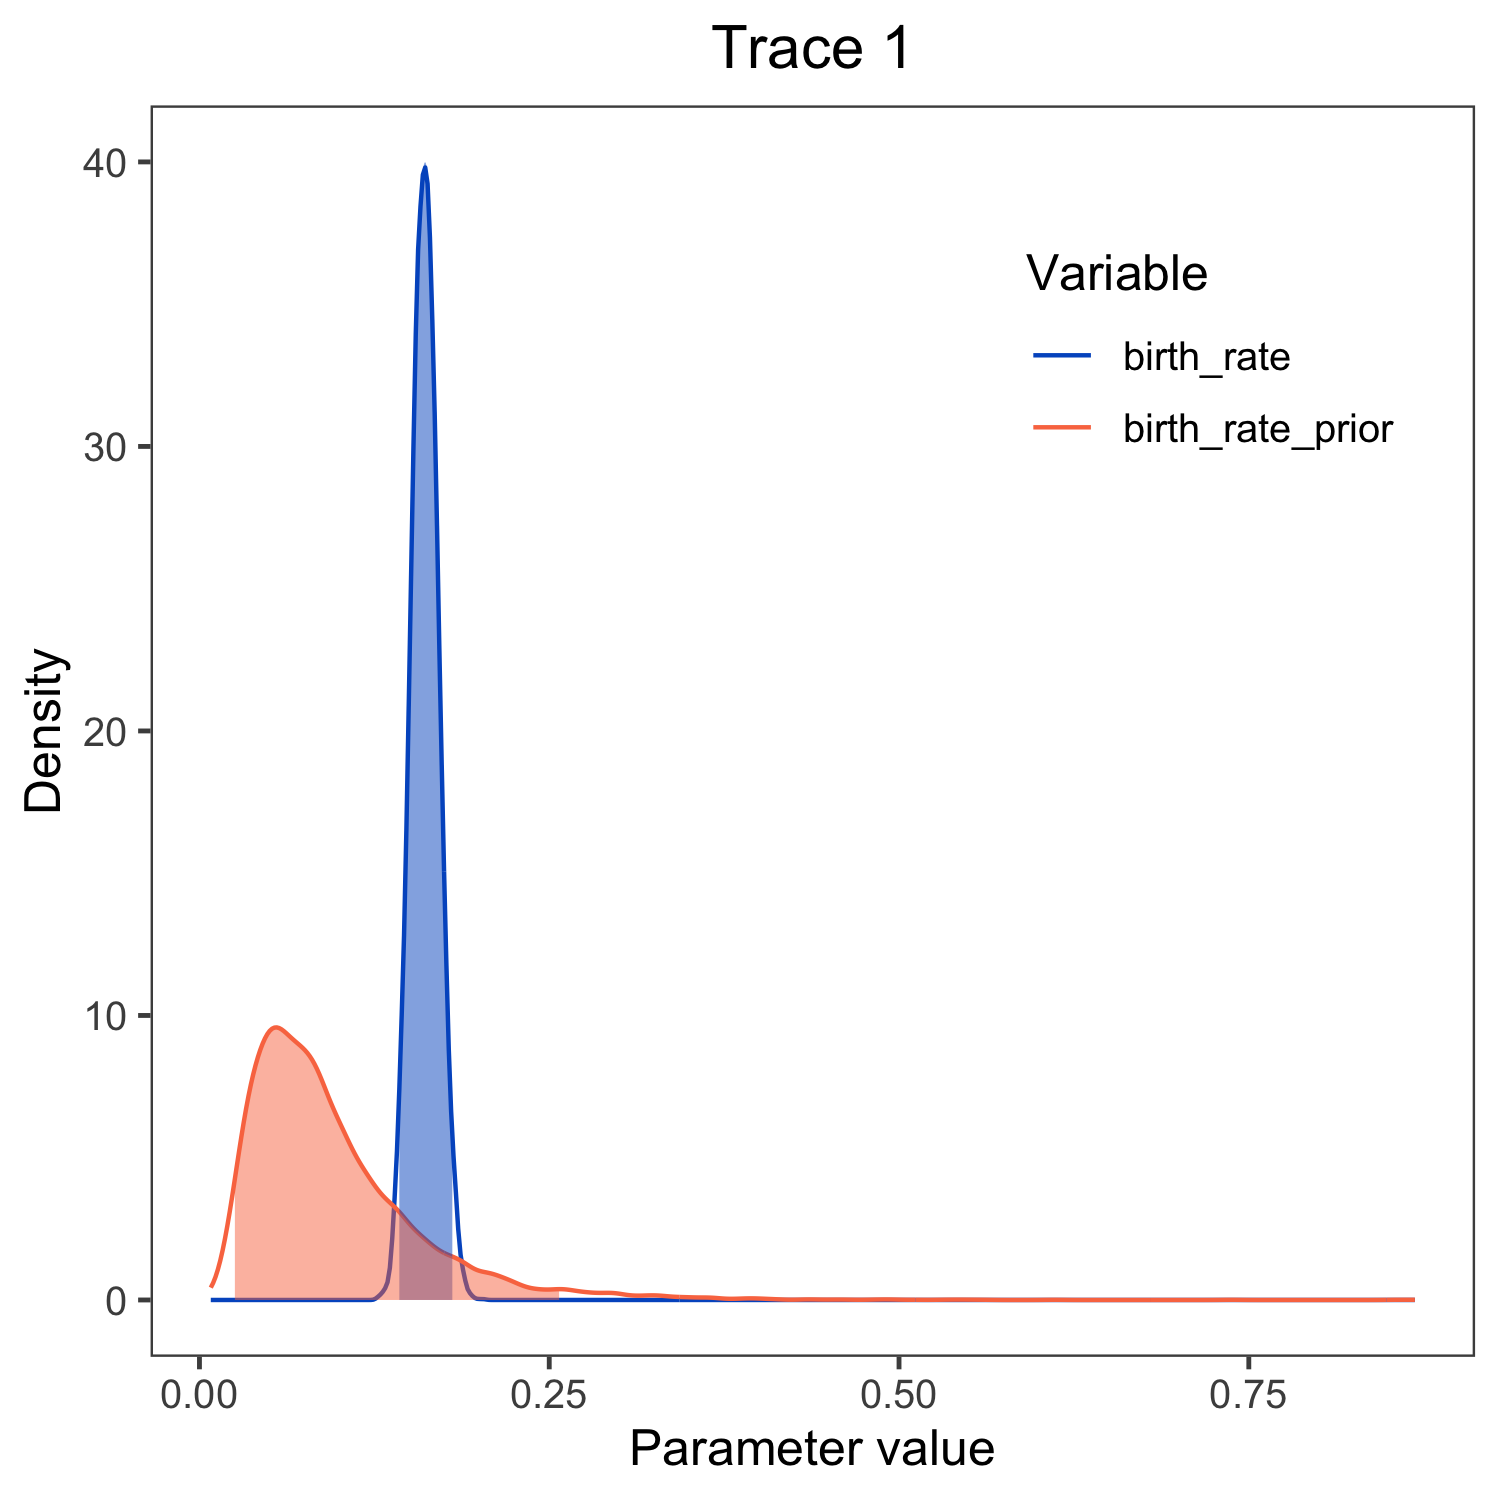
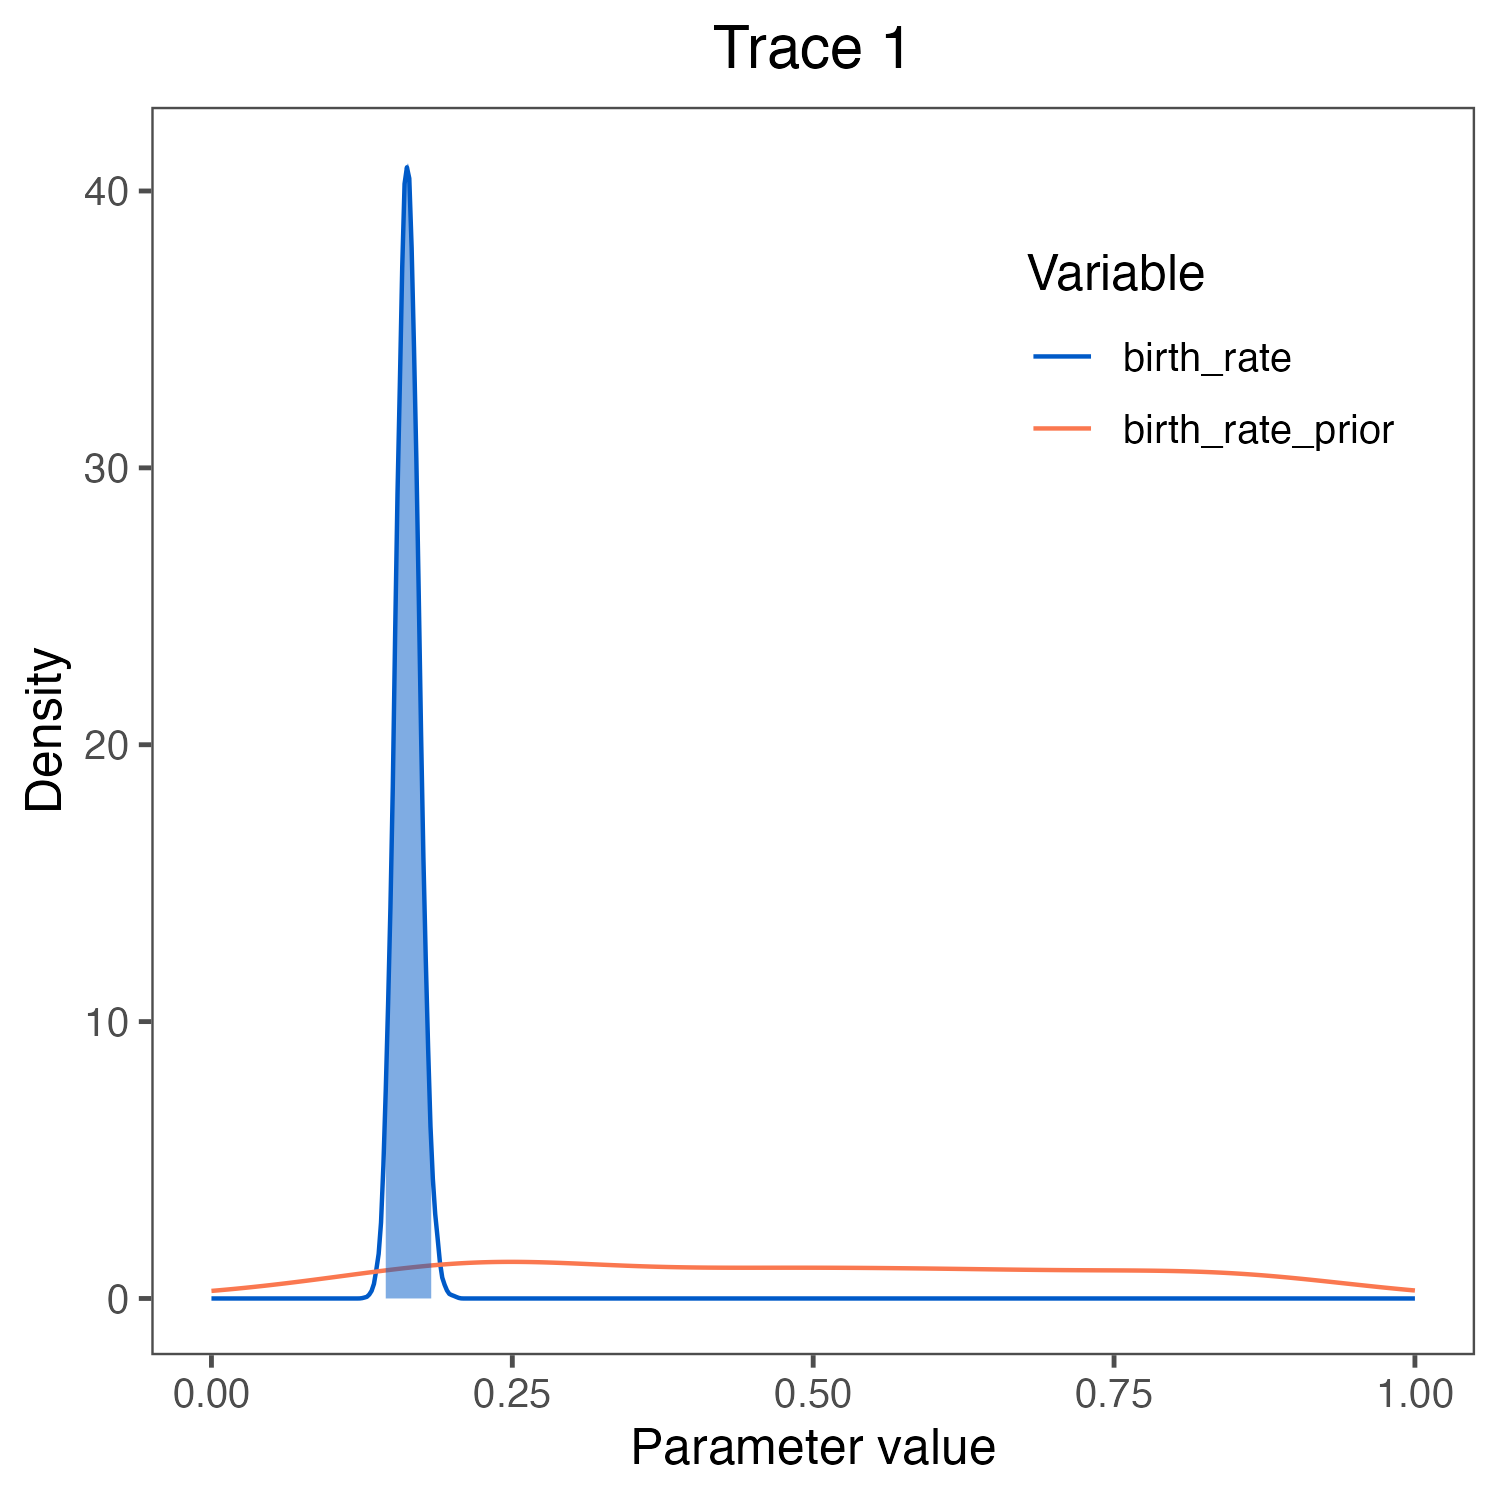
new prios

diff --git a/tutorials/divrate/figures/yule_gm2.tex b/tutorials/divrate/figures/yule_gm2.tex
@@ -1,9 +1,9 @@
 \begin{tikzpicture}
 \node[obnode] (nx) at (1,1) {\LARGE $\Psi$};
-\node[constnode] (lambda) at ($(nx)+(-1,2)$) {\LARGE $\lambda$};
+\node[snode] (lambda) at ($(nx)+(-1,2)$) {\LARGE $\lambda$};
 \node[constnode] (rho) at ($(nx)+(1,2)$) {\LARGE $\rho$};
-\node[constnode] (ml) at ($(lambda)+(-1,2)$) {\Large $m_\lambda$};
-\node[constnode] (sdl) at ($(lambda)+(1,2)$) {\Large $sd_\lambda$};
+\node[constnode] (ml) at ($(lambda)+(-1,2)$) {\Large $0$};
+\node[constnode] (sdl) at ($(lambda)+(1,2)$) {\Large $100$};
 \node[constnode] (root) at ($(nx)+(-2,0)$) {\Large $T$};
 \draw [taro] (root) -- (nx);
 \draw [taro] (rho) -- (nx);
@@ -11,8 +11,8 @@
 \draw [taro] (ml) -- (lambda);
 \draw [taro] (sdl) -- (lambda);
 \node at ($(nx)+(0,-1)$) {time tree};
-\node[white, fill=blue, shape=rectangle, rounded corners] at ($(ml)-(1.75,0)$) {prior mean};
-\node[white, fill=blue, shape=rectangle, rounded corners] at ($(sdl)+(2.75,0)$) {prior standard deviation};
+\node[white, fill=blue, shape=rectangle, rounded corners] at ($(ml)-(1.75,0)$) {prior min};
+\node[white, fill=blue, shape=rectangle, rounded corners] at ($(sdl)+(2.75,0)$) {prior max};
 \node[white, fill=blue, shape=rectangle, rounded corners] at ($(lambda)+(-0.75,0)$) [left]{speciation rate};
 \node[white, fill=blue, shape=rectangle, rounded corners] at ($(root)+(-0.75,0)$) [left]{root age};
 \node[white, fill=blue, shape=rectangle, rounded corners] at ($(rho)+(0.75,0)$) [right]{sampling probability};

diff --git a/tutorials/divrate/modules/simple_Yule_parameter_estimation.md b/tutorials/divrate/modules/simple_Yule_parameter_estimation.md
@@ -46,15 +46,12 @@ $\mu$) is a constant node with the value 0.
 {% figcaption %}
 The graphical model representation
 of the pure-birth (Yule) process, where the speciation rate is treated
-as a random variable drawn from a lognormal distribution.
+as a random variable drawn from a uniform distribution.
 {% endfigcaption %}
 {% endfigure %}
 
-For this exercise, we will specify a Yule model, such that the
-speciation rate is a stochastic node, drawn from a lognormal
-distribution as in {% ref fig_yule_gm2 %}. In a Bayesian framework, we
-are interested in estimating the posterior probability of $\lambda$
-given that we observe a time tree.
+For this exercise, we will specify a Yule model, such that the speciation rate is a stochastic node, drawn from a uniform distribution as in {% ref fig_yule_gm2 %}.
+In a Bayesian framework, we are interested in estimating the posterior probability of $\lambda$ given that we observe a time tree.
 
 $$
 \begin{equation}
@@ -63,23 +60,21 @@ $$
 \end{equation}
 $$
 
-In this example, we have a phylogeny of 233 primates. We are treating
-the time tree $\Psi$ as an observation, thus clamping the model with an
-observed value. The time tree we are conditioning the process on is
-taken from the analysis by {% citet MagnusonFord2012 %}. Furthermore, there are
-approximately 367 described primates species, so we will fix the
-parameter $\rho$ to $233/367$.
+In this example, we have a phylogeny of 233 primates.
+We are treating the time tree $\Psi$ as an observation, thus clamping the model with an observed value.
+The time tree we are conditioning the process on is taken from the analysis by {% citet MagnusonFord2012 %}.
+Furthermore, there are approximately 367 described primates species, so we will fix the parameter $\rho$ to $233/367$.
 
 &#8680; The full Yule-model specification is in the file called `mcmc_Yule.Rev`.
 
 
 {% subsection Read the tree %}
 
-Begin by reading in the observed tree and get some useful variables. We will need these later on.
+Begin by reading in the observed tree and get some useful variables.
+We will need these later on.
 {{ "mcmc_Yule.Rev" | snippet:"line","19-22" }}
 
-Additionally, we can initialize a variable for our vector of
-moves and monitors:
+Additionally, we can initialize a variable for our vector of moves and monitors:
 {{ "mcmc_Yule.Rev" | snippet:"line","26-27" }}
 
 
@@ -87,37 +82,22 @@ moves and monitors:
 
 {% subsubsection Birth rate %}
 
-The model we are specifying only has three nodes
-({% ref fig_yule_gm2 %}). We can specify the birth rate $\lambda$, the
-mean and standard deviation of the lognormal hyperprior on $\lambda$,
-and the conditional dependency of the two parameters all in one line of
-`Rev` code.
-{{ "mcmc_Yule.Rev" | snippet:"line","36-38" }}
+The model we are specifying only has three nodes ({% ref fig_yule_gm2 %}).
+We can specify the birth rate $\lambda$, the minimum and maximum of the uniform hyperprior on $\lambda$, and the conditional dependency of the two parameters all in one line of `Rev` code.
+{{ "mcmc_Yule.Rev" | snippet:"line","35" }}
 
-Here, the stochastic node called `birth_rate` represents the speciation
-rate $\lambda$. `birth_rate_mean` and `birth_rate_sd` are the prior
-mean and prior standard deviation, respectively. We chose the prior mean
-so that it is centered around observed number of species
-(*i.e.*, the expected number of species under a
-Yule process will thus be equal to the observed number of species) and a
-prior standard deviation of 0.587405 which creates a lognormal
-distribution with 95% prior probability spanning exactly one order of
-magnitude. If you want to represent more prior uncertainty by,
-*e.g.,* allowing for two orders of magnitude in
-the 95% prior probability then you can simply multiply `birth_rate_sd`
-by a factor of 2.
-
+Here, the stochastic node called `birth_rate` represents the speciation rate $\lambda$.
 To estimate the value of $\lambda$, we assign a proposal mechanism to operate on this node.
 In RevBayes these MCMC sampling algorithms are called *moves*.
 We will use a scaling move on $\lambda$ called `mvScale`.
-{{ "mcmc_Yule.Rev" | snippet:"line","39" }}
+{{ "mcmc_Yule.Rev" | snippet:"line","38" }}
 
 {% subsubsection Sampling probability %}
 
 Our prior belief is that we have sampled 233 out of 367 living primate
 species. To account for this we can set the sampling parameter as a
 constant node with a value of 233/367
-{{ "mcmc_Yule.Rev" | snippet:"line","44" }}
+{{ "mcmc_Yule.Rev" | snippet:"line","43" }}
 Note that we will assume "uniform" taxon sampling {% cite Hoehna2011 Hoehna2014a %}, which we will specify below.
 If we want to learn more about different taxon sampling options, then look at {% page_ref divrate/sampling %} tutorial.
 
@@ -134,14 +114,14 @@ root by assuming the process started with *two* lineages that both
 originate at the time of the root.
 
 We can get the value for the root from the {% citet MagnusonFord2012 %} tree.
-{{ "mcmc_Yule.Rev" | snippet:"line","47" }}
+{{ "mcmc_Yule.Rev" | snippet:"line","46" }}
 
 {% subsubsection The time tree %}
 
 Now we have all of the parameters we need to specify the full pure-birth
 model. We can initialize the stochastic node representing the time tree.
 Note that we set the `mu` parameter to the constant value `0.0`.
-{{ "mcmc_Yule.Rev" | snippet:"line","51" }}
+{{ "mcmc_Yule.Rev" | snippet:"line","50" }}
 Note that we specified the `condition="survival"`, which says that we assume this process only produced trees that survived until the present.
 Fore more information, see the {% page_ref divrate/conditions %} tutorial.
 
@@ -149,7 +129,7 @@ If you refer back to Equation \eqref{eq:bayes_thereom} and {% ref fig_yule_gm2 %
 the time tree $\Psi$ is the variable we observe,
 *i.e.*, the data. We can set this in `Rev` by
 using the `clamp()` function.
-{{ "mcmc_Yule.Rev" | snippet:"line","54" }}
+{{ "mcmc_Yule.Rev" | snippet:"line","53" }}
 Here we are fixing the value of the time tree to our observed tree from
 {% citet MagnusonFord2012 %}.
 
@@ -179,10 +159,10 @@ called `mn*`, where `*` is the wildcard representing the monitor type.
 First, we will initialize the model monitor using the `mnModel`
 function. This creates a new monitor variable that will output the
 states for all model parameters when passed into a MCMC function.
-{{ "mcmc_Yule.Rev" | snippet:"line","67" }}
+{{ "mcmc_Yule.Rev" | snippet:"line","66" }}
 Additionally, create a screen monitor that will report the states of
 specified variables to the screen with `mnScreen`:
-{{ "mcmc_Yule.Rev" | snippet:"line","68" }}
+{{ "mcmc_Yule.Rev" | snippet:"line","67" }}
 
 
 {% subsubsection Initializing and Running the MCMC Simulation %}
@@ -191,9 +171,9 @@ With a fully specified model, a set of monitors, and a set of moves, we
 can now set up the MCMC algorithm that will sample parameter values in
 proportion to their posterior probability. The `mcmc()` function will
 create our MCMC object:
-{{ "mcmc_Yule.Rev" | snippet:"line","77" }}
+{{ "mcmc_Yule.Rev" | snippet:"line","76" }}
 Now, run the MCMC:
-{{ "mcmc_Yule.Rev" | snippet:"line","80" }}
+{{ "mcmc_Yule.Rev" | snippet:"line","79" }}
 When the analysis is complete, you will have the monitored files in your
 output directory.
 

diff --git a/tutorials/divrate/modules/simple_birth_death.md b/tutorials/divrate/modules/simple_birth_death.md
@@ -21,7 +21,7 @@ this parameter can only take values between 0 and 1.
 For more information on incomplete taxon sampling, see {% page_ref divrate/sampling %} tutorial.
 
 {% figure fig_bdp_gm %}
-<img src="figures/simple_BD_gm_root.png" height="50%" width="50%" />
+<img src="figures/BDP_GM_simple.png" height="50%" width="50%" />
 {% figcaption %}
 The graphical model representation of the birth-death process with uniform sampling and
 conditioned on the root age.
@@ -37,7 +37,7 @@ because, for example, we want to enforce that the speciation rate is
 always larger than the extinction rate.
 
 {% figure fig_bdp_div_turn_gm %}
-<img src="figures/cBDR_gm.png" height="50%" width="50%" />
+<img src="figures/BDP_GM.png" height="50%" width="50%" />
 {% figcaption %}
 The graphical model representation of the birth-death process
 with uniform sampling parameterized using the diversification and turnover.
@@ -51,42 +51,32 @@ the `mcmc_Yule.Rev` script and modify it accordingly. Don't forget to
 rename the filenames of the monitors to avoid overwriting of your
 previous results!
 
-{% subsection Diversification and turnover %}
-
-We have some good prior information about the magnitude of the
-diversification. The diversification rate represent the rate at which
-the species diversity increases. Thus, we just use the same prior for
-the diversification rate as we used before for the birth rate.
-```
-diversification_mean <- ln( ln(367.0/2.0) / T.rootAge() )
-diversification_sd <- 0.587405
-diversification ~ dnLognormal(mean=diversification_mean,sd=diversification_sd)
-moves.append( mvScale(diversification,lambda=1.0,tune=true,weight=3.0) )
-```
-Unfortunately, we have less prior information about the turnover rate.
-The turnover rate is the rate at which one species is replaced by
-another species due to a birth plus death event. Hence, the turnover
-rate represent the longevity of a species. For simplicity we use the
-same prior on the turnover rate but with two orders of magnitude prior
-uncertainty.
-```
-turnover_mean <- ln( ln(367.0/2.0) / T.rootAge() )
-turnover_sd <- 0.587405*2
-turnover ~ dnLognormal(mean=turnover_mean,sd=turnover_sd)
-moves.append( mvScale(turnover,lambda=1.0,tune=true,weight=3.0) )
-```
-
 {% subsection Birth rate and death rate %}
 
-The birth and death rates are both deterministic nodes. We compute them
-by simple parameter transformation. Note that the death rate is in fact
-equal to the turnover rate.
-```
-birth_rate := diversification + turnover
-death_rate := turnover
-```
+Previously we assumed a uniform prior on the birth rate to signal that we have
+little information. The only information we use is that the rates are positive and
+smaller than 10 events per lineage per million years. We will apply this same prior
+distribution now for our birth-death model for both the birth and death rate.
+{{ "mcmc_BD.Rev" | snippet:"line","34-35" }}
+As before we will apply scaling moves on both parameters.
+{{ "mcmc_BD.Rev" | snippet:"line","38-39" }}
+The birth and death rates are likely to be correlated, i.e., we will get
+better MCMC mixing if you jointly update both the birth and death rates.
+Joint updates can be done with our `mvUpDownScale` move.
+{{ "mcmc_BD.Rev" | snippet:"line","41-44" }}
+
+
+{% subsection Diversification and turnover %}
+The birth and death rates are our stochastic parameters and intrinsic
+parameters. However, often we are also interested in the diversification and
+relative extinction rate (or sometimes called turnover rate), which are simple
+transformations of our birth and death rates. Thus, we create some deterministic
+variables called `diversification` and `rel_extinction`.
+{{ "mcmc_BD.Rev" | snippet:"line","47-48" }}
+
 All other parameters, such as the sampling probability and the root age
 are kept the same as in the analysis above.
+
 
 {% subsection The time tree %}
 
